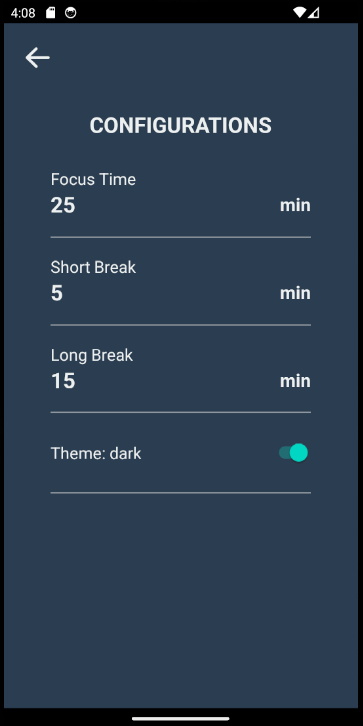
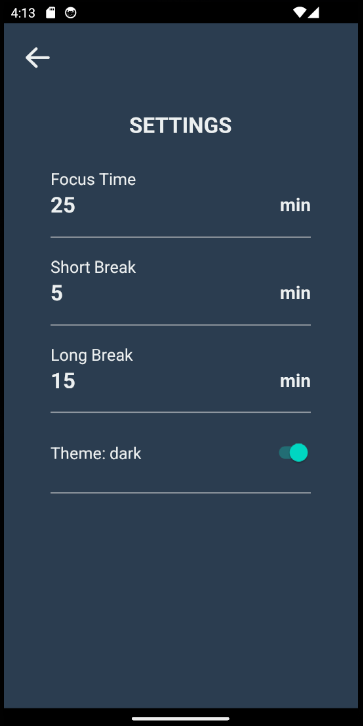
fixing typos and adding new screenshots

Changed region(s): [[0.2424, 0.1515, 0.7576, 0.1818], [0.8485, 0.0, 0.8788, 0.0303], [0.0606, 0.0, 0.0909, 0.0303]]

diff --git a/src/pages/Home/index.js b/src/pages/Home/index.js
@@ -27,11 +27,11 @@ export default function Home({ navigation }) {
             </TouchableOpacity>
             <TouchableOpacity
                 onPress={() => {
-                    navigation.navigate('Configurations')
+                    navigation.navigate('Settings')
                 }}
                 style={style.buttons}
             >
-                <Text style={style.textButton}>Configurations</Text>
+                <Text style={style.textButton}>Settings</Text>
             </TouchableOpacity>
         </View>
     </Telas>

diff --git a/src/Rotas.js b/src/Rotas.js
@@ -17,7 +17,7 @@ export default function Rotas(){
         >
             <Stack.Screen name="Home" component={Home} />
             <Stack.Screen name="Timer" component={Timer}/>
-            <Stack.Screen name="Settins" component={Configurations} />
+            <Stack.Screen name="Settings" component={Configurations} />
         </Stack.Navigator>
     </NavigationContainer>
 }

diff --git a/README.md b/README.md
@@ -5,9 +5,9 @@
 - Nas configurações do app é possível alterar o tema da aplicação e alterar o tempo padrão de cada um dos modos disponível.
 
 ## Imagens
-| Tema Claro | Tema escuro | Tela do Timer | Tela de configurações |
-| --- | --- | --- | --- |
-| <img src="./screenshots/light.png" width="150"> | <img src="./screenshots/dark.png" width="150"> | <img src="./screenshots/timer.png" width="150"> | <img src="./screenshots/settings.png" width="150">
+| Tema Claro | Tema escuro | Tela do Timer | Tela de Pausa | Tela de configurações |
+| --- | --- | --- | --- | --- |
+| <img src="./screenshots/light.png" width="150"> | <img src="./screenshots/dark.png" width="150"> | <img src="./screenshots/timer.png" width="150"> | <img src="./screenshots/short.png" width="150"> | <img src="./screenshots/settings.png" width="150"> |
 
 ## Informações técnicas
 ### Como rodar a aplicação
